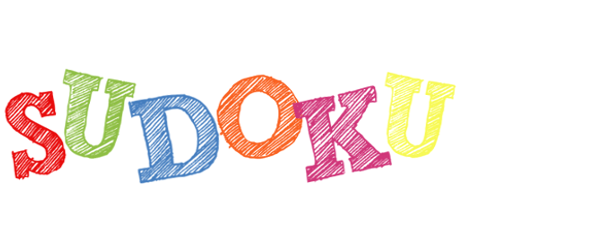
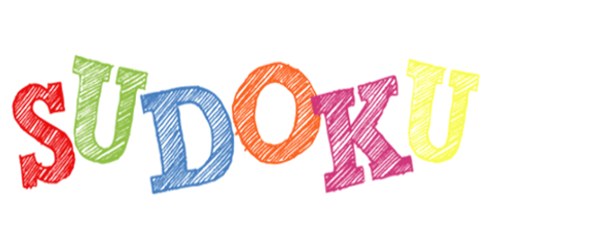
ui

Changed region(s): [[0.0, 0.224, 0.81, 0.784]]

diff --git a/src/cmsc142/project/sudoku/StartPanel.java b/src/cmsc142/project/sudoku/StartPanel.java
@@ -43,7 +43,7 @@ public class StartPanel extends JPanel implements ActionListener{
 	}
 	
 	private void setComponents(){
-		sudoku = new JLabel(new ImageIcon("./resources/sudoku1.png"));
+		sudoku = new JLabel(new ImageIcon("./resources/sudoku.png"));
 		newGame = new JButton("New Game");
 		highScore = new JButton("High Score");
 		exit = new JButton("Exit");
